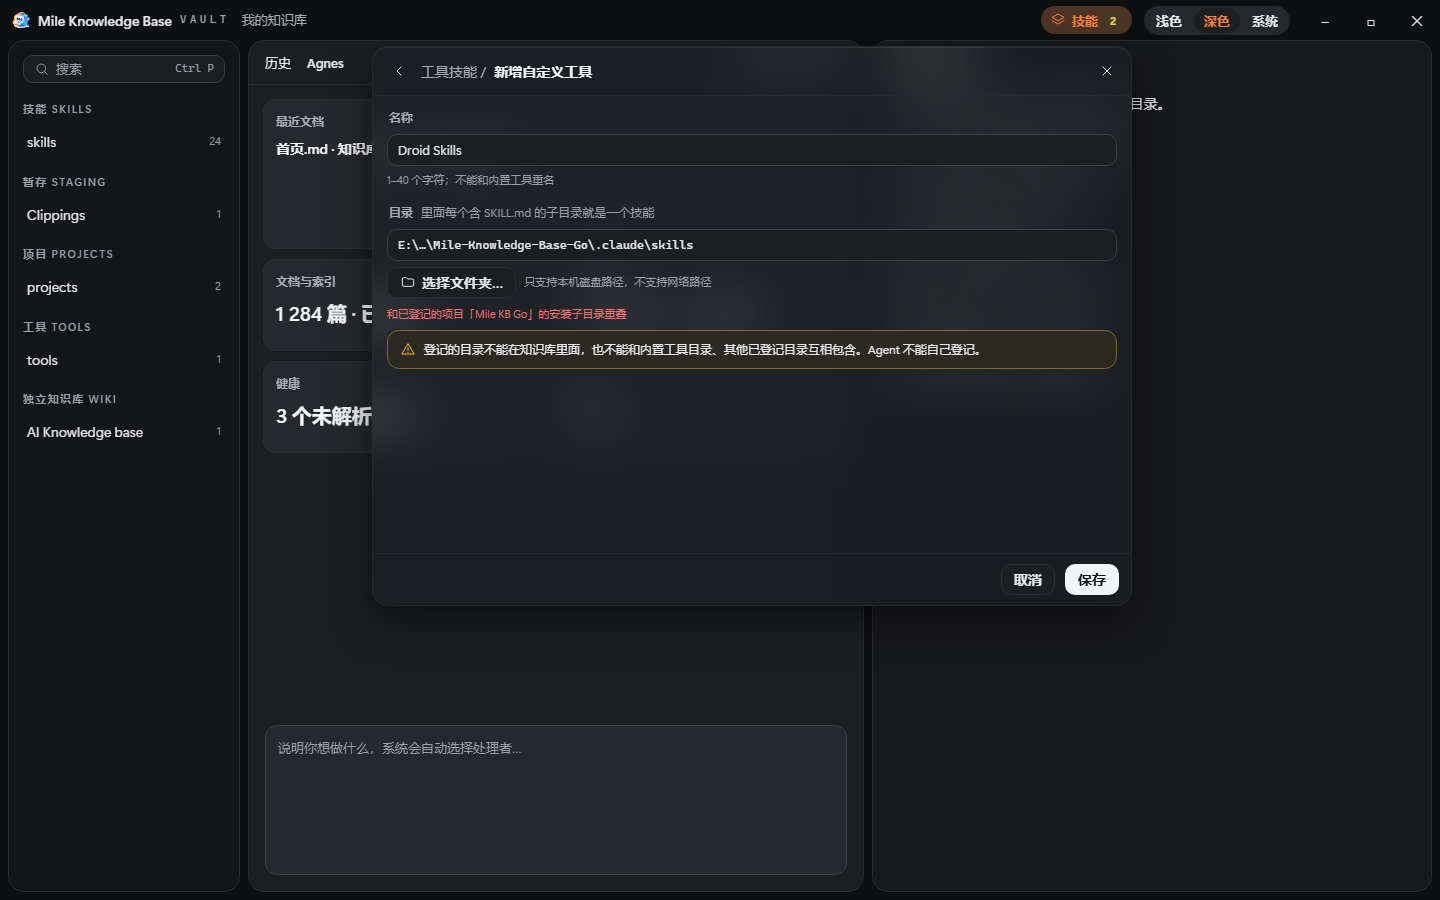
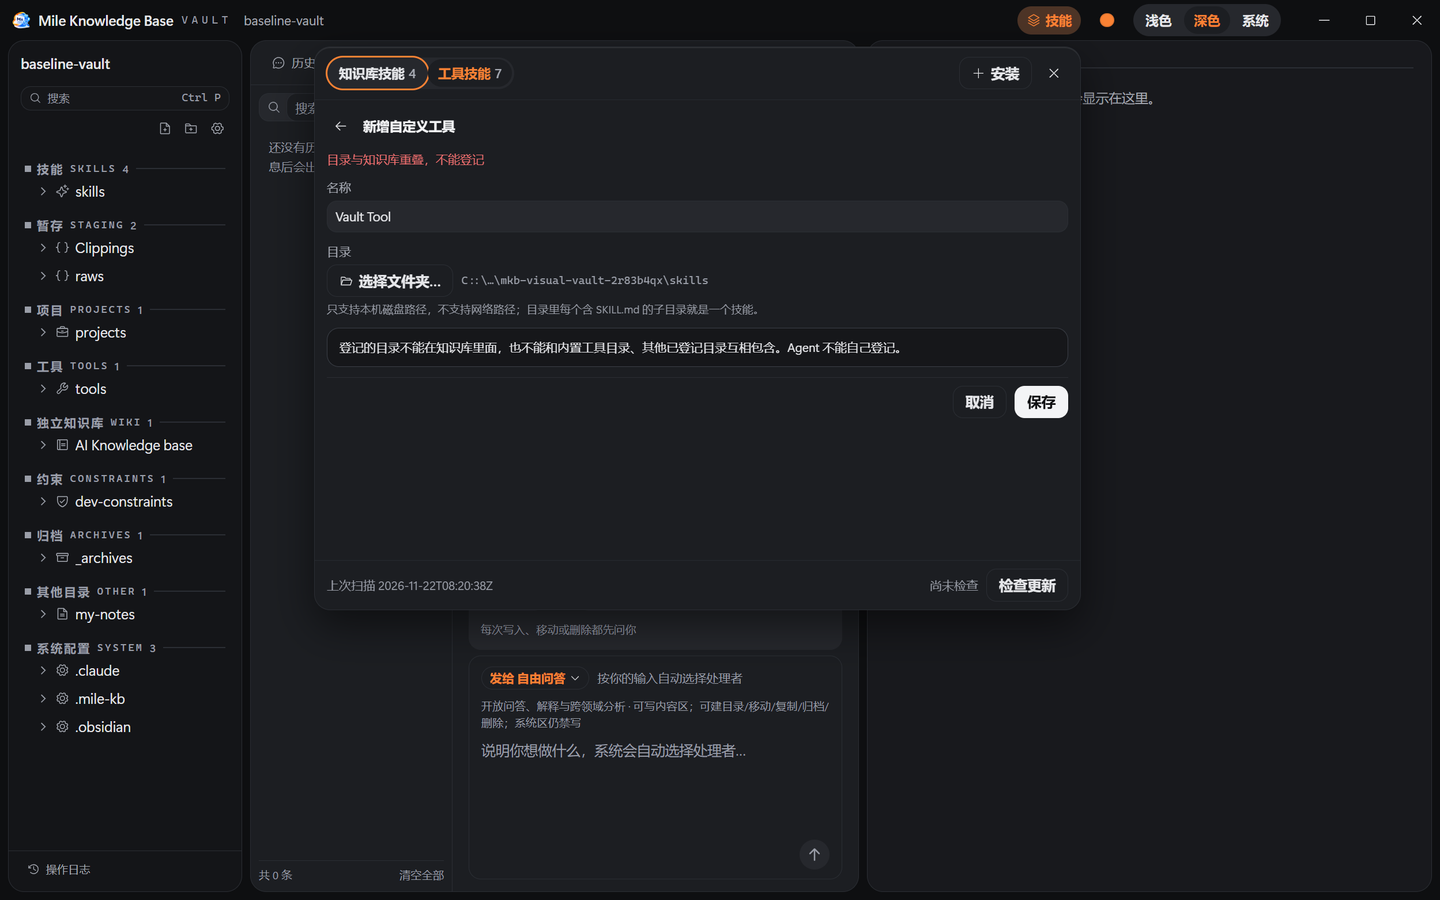
docs(visual): retake the M6 management screenshots from the real app (M6 T10)

diff --git a/src/components/skills/TargetsView.tsx b/src/components/skills/TargetsView.tsx
@@ -273,8 +273,7 @@ export function TargetsView({
             </span>
           </div>
 
-          <footer className="install-foot">
-            <span />
+          <footer className="install-foot targets-form-foot">
             <span className="spacer" />
             <button type="button" className="btn-quiet" onClick={() => setForm(null)} data-testid="targets-cancel">
               取消

diff --git a/src/styles/skills-panel.css b/src/styles/skills-panel.css
@@ -1308,3 +1308,7 @@
 .targets-empty p {
   margin: 0;
 }
+
+.targets-form .targets-form-foot {
+  justify-content: flex-end;
+}

diff --git a/scripts/visual/capture-m6.py b/scripts/visual/capture-m6.py
@@ -1,0 +1,262 @@
+#!/usr/bin/env python3
+"""Capture the M6 management states from the real window (T10).
+
+Runs the e2e build against a temporary vault, a fake HOME and a folder queue
+(SKILLS_FAKE_PICK_DIR=@<file>, e2e builds only), drives the four management
+states in light and dark, and writes them into design/r2/shots-m6/ (replacing
+the prototype shots; the prototypes stay in git history). Also prints the
+contrast ratios of the new text.
+
+Usage (from the repo root, with no other Mile Knowledge Base instance):
+  python -I scripts/visual/capture-m6.py
+"""
+
+import importlib.util
+import io
+import json
+import os
+import subprocess
+import sys
+import tempfile
+import time
+from pathlib import Path
+
+HERE = Path(__file__).resolve().parent
+ROOT = HERE.parents[1]
+spec = importlib.util.spec_from_file_location("capture_common", HERE / "capture-new.py")
+cap = importlib.util.module_from_spec(spec)
+assert spec.loader is not None
+spec.loader.exec_module(cap)
+
+from PIL import Image as PILImage  # noqa: E402
+
+if hasattr(sys.stdout, "reconfigure"):
+    sys.stdout.reconfigure(encoding="utf-8")
+
+SHOTS = ROOT / "design" / "r2" / "shots-m6"
+SHOTS.mkdir(parents=True, exist_ok=True)
+PORT = cap.PORT
+
+
+def log(message):
+    print(message, flush=True)
+
+
+def write_text(path, data):
+    path.parent.mkdir(parents=True, exist_ok=True)
+    path.write_text(data, encoding="utf-8", newline="\n")
+
+
+def write_skill(path):
+    write_text(Path(path) / "SKILL.md", "# demo\n\n")
+
+
+def set_queue(queue, *paths):
+    write_text(Path(queue), "\n".join(paths) + "\n")
+
+
+def main():
+    if not cap.APP.exists():
+        log(f"missing e2e build: {cap.APP}\nrun: GOFLAGS=-tags=e2e MYGO_INSPECTOR=1 bun run build")
+        return 2
+
+    appdata = cap.canon(tempfile.mkdtemp(prefix="mkb-m6-appdata-"))
+    vault = cap.build_vault()
+    vid = cap.vault_id_of(vault)
+    cap.write_settings(appdata, "light", vault, vid)
+
+    home = cap.canon(tempfile.mkdtemp(prefix="mkb-m6-home-"))
+    write_text(Path(home) / ".local" / "bin" / "claude.cmd", "@echo off")
+    write_text(Path(home) / ".claude" / "skills" / "other" / "SKILL.md", "# other\n")
+    registry = Path(home) / "registry.json"
+    write_text(registry, json.dumps({"uninstall": []}))
+
+    work = Path(tempfile.mkdtemp(prefix="mkb-m6-fixtures-"))
+    custom = work / "droid-skills"
+    custom_b = work / "second-tool"
+    project = work / "acme-site"
+    gone = work / "gone-tool"
+    for root in (custom, custom_b, gone):
+        root.mkdir(parents=True, exist_ok=True)
+    for index in range(3):
+        write_skill(custom / f"skill-{index}")
+    write_skill(custom_b / "extra")
+    (project / ".claude" / "skills").mkdir(parents=True, exist_ok=True)
+    (project / ".agents" / "skills").mkdir(parents=True, exist_ok=True)
+    for index in range(2):
+        write_skill(project / ".claude" / "skills" / f"web-{index}")
+    write_skill(project / ".agents" / "skills" / "shared-one")
+
+    queue = work / "pick-queue.txt"
+    set_queue(queue, str(custom))
+
+    env = {
+        **os.environ,
+        "APPDATA": appdata,
+        "MYGO_AUTOMATION": f"tcp:127.0.0.1:{PORT}",
+        "SKILLS_FAKE_HOME": home,
+        "SKILLS_FAKE_PATH": str(Path(home) / ".local" / "bin"),
+        "SKILLS_FAKE_REGISTRY": str(registry),
+        "SKILLS_FAKE_PICK_DIR": "@" + str(queue),
+    }
+    app = subprocess.Popen([str(cap.APP)], env=env, stdout=subprocess.DEVNULL, stderr=subprocess.DEVNULL)
+    try:
+        driver = cap.Driver(PORT)
+        driver.connect(60)
+        driver.wait("!!document.querySelector('[data-testid=\"overview-grid\"]')", 90)
+        try:
+            driver.wait("!document.body.innerText.includes('未索引')", 90)
+        except RuntimeError:
+            log("index still running; continuing")
+        time.sleep(1.0)
+
+        def click(selector):
+            driver.js(cap.js_click(selector))
+
+        def click_text(scope, text):
+            driver.js(
+                "(() => { const scope=document.querySelector(%s); if(!scope) throw new Error('missing scope');"
+                " const b=[...scope.querySelectorAll('button')].find((x)=>x.textContent.includes(%s));"
+                " if(!b) throw new Error('missing button'); b.click(); return true; })()"
+                % (json.dumps(scope), json.dumps(text))
+            )
+
+        def shot(name):
+            image = PILImage.open(io.BytesIO(driver.capture())).convert("RGB").resize((1440, 900), PILImage.LANCZOS)
+            image.save(SHOTS / f"{name}.png")
+            log(f"  [captured] {name}.png")
+
+        def fill(testid, value):
+            driver.js(cap.js_set_value(f'[data-testid="{testid}"]', value, "input"))
+
+        def open_targets():
+            driver.js("window.__mkbApp.getState().openSkillsPanel(); true")
+            driver.wait("!!document.querySelector('[data-testid=\"skills-panel\"]')", 20)
+            time.sleep(0.4)
+            click_text('[data-testid="skills-panel"]', "工具技能")
+            time.sleep(0.4)
+            click('[data-testid="manage-targets"]')
+            driver.wait("!!document.querySelector('[data-testid=\"targets-view\"]')", 20)
+            time.sleep(0.4)
+
+        def register(kind, name, pick, install=None, save=True):
+            set_queue(queue, pick)
+            click(f'[data-testid="targets-add-{kind}"]')
+            driver.wait("!!document.querySelector('[data-testid=\"target-name\"]')", 20)
+            fill("target-name", name)
+            click('[data-testid="target-pick"]')
+            driver.wait("!!document.querySelector('[data-testid=\"target-picked\"]')", 20)
+            time.sleep(0.4)
+            if install:
+                click(f'[data-testid="target-install-{install}"]')
+                time.sleep(0.2)
+            if save:
+                click('[data-testid="target-save"]')
+                driver.wait("!document.querySelector('[data-testid=\"target-name\"]')", 40)
+                time.sleep(0.8)
+                driver.js(
+                    "(() => { const b=document.querySelector('[data-testid=\"skills-banner-close\"]');"
+                    " if(b) b.click(); return true; })()"
+                )
+                time.sleep(0.3)
+
+        CONTRAST_JS = """(() => {
+          const parse = (s) => {
+            const mixed = s.match(/color\\(srgb\\s+([\\d.]+)\\s+([\\d.]+)\\s+([\\d.]+)/);
+            if (mixed) return [mixed[1], mixed[2], mixed[3]].map((v) => Number(v) * 255);
+            return (s.match(/[\\d.]+/g) || []).slice(0, 3).map(Number);
+          };
+          const lum = (c) => { const f = (v) => { v /= 255; return v <= 0.04045 ? v / 12.92 : Math.pow((v + 0.055) / 1.055, 2.4); }; return 0.2126*f(c[0])+0.7152*f(c[1])+0.0722*f(c[2]); };
+          const ratio = (a, b) => { const x = lum(parse(a)), y = lum(parse(b)); const hi = Math.max(x, y), lo = Math.min(x, y); return +((hi + 0.05) / (lo + 0.05)).toFixed(2); };
+          const bgOf = (el) => { let n = el; while (n && n !== document.documentElement) { const bg = getComputedStyle(n).backgroundColor; if (bg && bg !== 'transparent' && bg !== 'rgba(0, 0, 0, 0)') return bg; n = n.parentElement; } return getComputedStyle(document.body).backgroundColor; };
+          const out = {};
+          const path = document.querySelector('.targets-path');
+          if (path) out.path = ratio(getComputedStyle(path).color, bgOf(path));
+          const stat = document.querySelector('.targets-stat');
+          if (stat) out.stat = ratio(getComputedStyle(stat).color, bgOf(stat));
+          const warnPill = document.querySelector('.targets-row .pill[data-tone="warn"]');
+          if (warnPill) out.missingPill = ratio(getComputedStyle(warnPill).color, bgOf(warnPill));
+          const fault = document.querySelector('.install-fault');
+          if (fault) out.faultText = ratio(getComputedStyle(fault).color, bgOf(fault));
+          return JSON.stringify(out);
+        })()"""
+
+        # One-time setup: three registrations (the third directory is deleted
+        # afterwards so the list shows the missing state).
+        open_targets()
+        register("custom", "Droid Skills", str(custom))
+        register("project", "acme-site", str(project), install=".claude/skills")
+        register("custom", "Gone Tool", str(gone))
+        subprocess.run(["cmd", "/c", "rmdir", "/s", "/q", str(gone)], check=False)
+        time.sleep(0.5)
+
+        def states(theme):
+            open_targets()
+            driver.js("window.__mkbSkills.getState().refresh(%s); true" % json.dumps(vid))
+            time.sleep(1.2)
+            log(f"  contrast {theme}: " + str(driver.js(CONTRAST_JS)))
+            shot(f"targets-{theme}")
+
+            # New custom form with a rejected directory (targets-custom-*).
+            set_queue(queue, str(Path(vault) / "skills"))
+            click('[data-testid="targets-add-custom"]')
+            driver.wait("!!document.querySelector('[data-testid=\"target-name\"]')", 20)
+            fill("target-name", "Vault Tool")
+            click('[data-testid="target-pick"]')
+            driver.wait("!!document.querySelector('[data-testid=\"target-picked\"]')", 20)
+            time.sleep(0.3)
+            click('[data-testid="target-save"]')
+            driver.wait("!!document.querySelector('[data-testid=\"targets-error\"]')", 30)
+            time.sleep(0.6)
+            log(f"  contrast targets-custom {theme}: " + str(driver.js(CONTRAST_JS)))
+            shot(f"targets-custom-{theme}")
+            click('[data-testid="targets-cancel"]')
+            time.sleep(0.4)
+
+            # Project form with detected subdirectories (targets-project-*).
+            set_queue(queue, str(project))
+            click('[data-testid="targets-add-project"]')
+            driver.wait("!!document.querySelector('[data-testid=\"target-name\"]')", 20)
+            fill("target-name", "another-site")
+            click('[data-testid="target-pick"]')
+            driver.wait("!!document.querySelector('[data-testid=\"target-dirs\"]')", 20)
+            time.sleep(0.4)
+            click('[data-testid="target-install-.claude/skills"]')
+            time.sleep(0.2)
+            shot(f"targets-project-{theme}")
+            click('[data-testid="targets-cancel"]')
+            time.sleep(0.4)
+
+            # Removal confirmation (targets-remove-*).
+            driver.js(
+                "(() => { const row=[...document.querySelectorAll('[data-testid^=\"target-row-t-\"]')]"
+                ".find((el)=>el.textContent.includes('Droid Skills')); if(!row) throw new Error('missing row');"
+                " row.querySelector('[data-testid^=\"target-remove-\"]').click(); return true; })()"
+            )
+            driver.wait("!!document.querySelector('[data-testid=\"target-remove-dialog\"]')", 20)
+            time.sleep(0.5)
+            shot(f"targets-remove-{theme}")
+            click_text('[data-testid="target-remove-dialog"]', "取消")
+            time.sleep(0.3)
+
+        states("light")
+        driver.js("window.__mkbApp.getState().setTheme('dark'); true")
+        time.sleep(1.0)
+        states("dark")
+        return 0
+    finally:
+        try:
+            app.terminate()
+            app.wait(timeout=8)
+        except Exception:  # noqa: BLE001
+            subprocess.run(["taskkill", "/F", "/PID", str(app.pid), "/T"], capture_output=True)
+
+
+if __name__ == "__main__":
+    try:
+        sys.exit(main())
+    except Exception:  # noqa: BLE001
+        import traceback
+
+        traceback.print_exc()
+        sys.exit(1)

diff --git a/docs/UI设计稿.md b/docs/UI设计稿.md
@@ -302,7 +302,7 @@
 
 ### 9.5 M6：自定义目录与项目源
 
-> 状态：用户 2026-11-22 审核通过（随 PLAN-M6 v0.1 批准）。原型在同一个 [`design/r2/skills-panel.html`](../design/r2/skills-panel.html) 里新增 4 个状态（`?state=` 后接下表的名字），原型截图 8 张（浅 / 深各 4）在 `design/r2/shots-m6/`，由 [`scripts/visual/capture-proto-m6.py`](../scripts/visual/capture-proto-m6.py) 生成；T10 换成真实窗口截图。
+> 状态：用户 2026-11-22 审核通过（随 PLAN-M6 v0.1 批准）。原型在同一个 [`design/r2/skills-panel.html`](../design/r2/skills-panel.html) 里新增 4 个状态（`?state=` 后接下表的名字），T10 视觉对照（2026-11-22）：`design/r2/shots-m6/` 的 8 张已替换为真实窗口截图（e2e 构建、假 HOME、目录队列、默认橙色，1440×900），由 [`scripts/visual/capture-m6.py`](../scripts/visual/capture-m6.py) 生成；原型截图保留在 git 历史里，生成脚本是 `capture-proto-m6.py`。逐状态差异见 9.5.1。
 >
 > 入口（Q-M6-2 已批准）：技能浮层「工具技能」页顶部一行「管理目录」按钮，进入本节的子视图；设置页「关于与诊断」只加一行「技能目录：N 个自定义目录 · M 个项目」和「管理」按钮（打开浮层并直接进子视图）。
 
@@ -324,6 +324,20 @@
 | 选择目录被拒绝 | 保存时在目录一行下方显示 fault 文字，写具体原因（在知识库里 / 与某工具目录重叠 / 不是目录 / 是联接 / 不支持网络路径），表单不关闭、不清空名称 |
 | 达到上限（100） | 「新增」按钮禁用，title 写「最多 100 个」 |
 | 设置页入口 | 「关于与诊断」一行，右侧「管理」按钮；无知识库时也可用（管理目录不依赖知识库） |
+
+
+#### 9.5.1 真实截图与原型差异（T10，2026-11-22）
+
+对照口径：浅 / 深各 4 张，真实窗口 1440×900，默认橙；夹具是三个登记（一个自定义、一个项目、一个删除了目录的自定义）和占位名称。没有阻断差异。
+
+| 状态 | 差异 |
+| --- | --- |
+| targets | 行结构与原型一致：类型胶囊、名称 + 脱敏路径、技能数；项目行多「2 个子目录」；「目录不存在」胶囊在名称右侧。脱敏路径保留最后两段，夹具临时目录名较长，所以比原型长；路径在用户目录下时仍显示 `<home>` 前缀（M4 口径）。面板底栏（上次扫描 / 检查更新）沿用 M4，原型没画 |
+| targets-custom | 校验错误显示在表单第一行（fault 色），不是原型里字段下方那一行；保存 / 取消在表单右下（原型也在右下）。被拒绝的目录照常显示在「目录」行 |
+| targets-project | 检测到的约定子目录用只读胶囊 + 计数；「分发安装到」单选选中的一项用强调色描边与浅底。默认选第一个已存在的约定目录（按注册表顺序，夹具里是 `.agents/skills`），截图里显式选了 `.claude/skills` |
+| targets-remove | 结构与原型一致：两段说明（记录会一起删除、目录里的文件不会删除）与「移除登记」危险按钮；加粗句在真实界面里与正文差别不明显（`strong` 默认字重，未额外加强） |
+
+真实面板对比度（默认橙，`capture-m6.py` 实测）：浅色 / 深色分别为——登记行路径 6.22 / 6.22，统计文字 8.09 / 7.17，「目录不存在」胶囊 7.47 / 7.77，表单错误文字 6.47 / 6.03；全部高于 DESIGN 12.3 的门槛（正文 4.5）。
 
 ### 9.3 与 R1 截图的关系
 

diff --git a/docs/PLAN-M6.md b/docs/PLAN-M6.md
@@ -58,7 +58,7 @@
 | T07 | 目录管理子视图 | `src/components/skills/TargetsView.tsx`（新）、`SkillsPanel.tsx`、`ToolSkillsPage.tsx`、`skills-panel.css`、测试 | T04 | 列表（名称、脱敏路径、技能数、类型、目录不存在）；新增自定义 / 项目（选目录、名称、项目安装子目录）；编辑；移除确认写明「文件不会删除」；校验错误就地显示；输入框用 `.field` | 已验证 |
 | T08 | 工具页与目标格 | `ToolSkillsPage`、`DistributeDialog`、`InstallView`、`ToolIcon`、`AboutSection`、`appStore`、`skillsView` | T05、T07 | 自定义工具出现在 chip 与目标格；项目行显示来源工具图标与子目录；分发与安装目标格出现项目（写入 installRel）与自定义工具，目录不存在时禁用；设置页加入口 | 已验证 |
 | T09 | e2e 验收 | `scripts/e2e/ac-m6.sh`（新）、`skills_dialog_e2e.go`（目录队列）、`scripts/test-e2e.sh`（自动收录） | T05–T08 | AC-SKM-17、18；重叠与知识库内路径拒绝；移除登记后文件仍在；真实工具目录零写入；全量回归通过 | 已验证（ac-m6 46/46；全量结果见账本） |
-| T10 | 视觉对照 | `design/r2/shots-m6/`、`scripts/visual/capture-m6.py`（新） | T08 | 目录管理与两个分组状态 × 浅 / 深真实截图；与原型差异记入 UI 稿；对比度复测 | 待做 |
+| T10 | 视觉对照 | `design/r2/shots-m6/`、`scripts/visual/capture-m6.py`（新）、UI 稿 9.5.1、DESIGN 11.6 | T08 | 目录管理 4 状态 × 浅 / 深真实截图；与原型差异记入 UI 稿；对比度复测 | 已验证 |
 | T11 | 性能与人工项 | `scripts/e2e/perf-m6.sh`（新）、G-PERF、人工测试（按 B-M6-03） | T09 | 10 个项目 × 每个 5 个约定子目录 × 每个 20 个技能时扫描 p95 ≤ 300 ms；M4 的 700 条目扫描不退化（≤ 200 ms）；人工项经同意后执行并记录 | 待做 |
 | T12 | 整体审查（按 B-M6-02） | 审查报告、本计划 | T11 | 阻断 0，需改项已修或经用户接受 | 待做 |
 | T13 | 收尾（按 B-M6-01） | README、CLAUDE.md、路线、发布清单、本计划 | T12 | 1.4.0 安装包与升级冒烟；文档同步；列提交；推送前询问 | 待做 |
